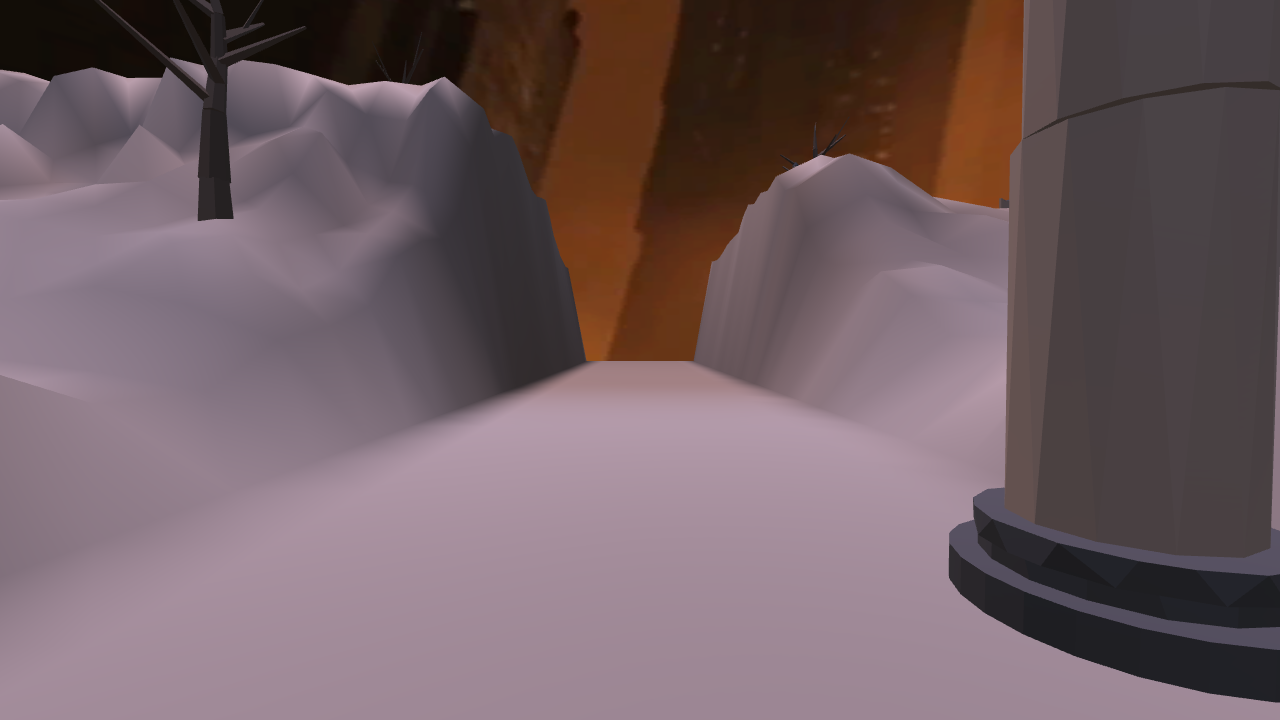
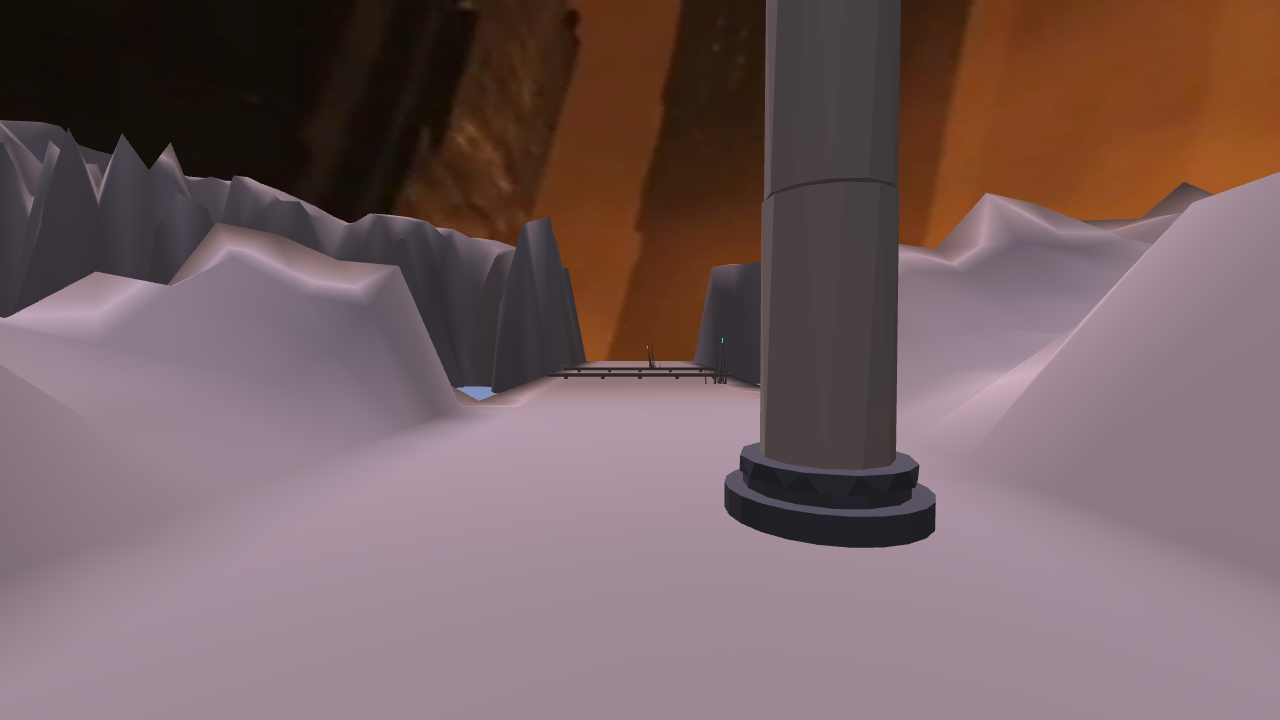
preview: 🌙 야근 웨이브 2 — Stage 1(의도 명세) 다시 세우고 물을 1급 지형 범주로 도입: 강·호수·오아시스·발광 산정호 + 수변 갈대·판자 다리, 고지대 하향. 마을이 강기슭에 앉음. 계획 진행: plan.html에서 Stage 1 완료·Stage 2.3 도달 확인

diff --git a/plan.html b/plan.html
@@ -68,13 +68,13 @@
 
 <script>
 // ── plan data (edited each wave; status: done | run | wait) ─────────────────────────────
-const UPDATED = "2026-08-16 · 야근 웨이브 1";
+const UPDATED = "2026-08-16 · 야근 웨이브 2 (Stage 1 완료 + 물 도입)";
 const GOAL = "<b>이번 야근 목표:</b> Figure 1의 <b>Stage 1(Intent Analysis &amp; Planning)</b>을 thorough 하게 다시 세우고, <b>Stage 2 하위 3단계(Scene Terrain Generation &amp; Refinement)</b>까지 진행한다. 계기: 침식 버전이 여태 최선이나 ①좁은 타일에 과도한 고지대 ②맵에 물이 전혀 없음 — 되짚어 보니 <b>Stage 1을 건너뛰어</b> 지형 범주(특히 물)를 의도에서 유도하지 않고 건물 중심 분할로 직행한 게 근본 원인.";
 const FOOT = "핵심 인사이트: <i>coarse-to-fine agentic framework for building explicit, explorable, and editable 3D worlds from open-ended text.</i> — 우리도 거친 지형 골조(Stage 2)부터 세우고 점진적으로 조밀화(Stage 3)하되, 그 출발점인 의도 명세(Stage 1)를 먼저 제대로 닫는다.";
 
 const STEPS = [
- { stage:"Stage 1 — Intent Analysis & Planning", status:"run",
-   title:"의도 명세: 5왕국 × (Scene Type / Spatial Layout / Visual Style / Main Objects / Terrain Categories)",
+ { stage:"Stage 1 — Intent Analysis & Planning", status:"done",
+   title:"의도 명세: 5왕국 × (Scene Type / Spatial Layout / Visual Style / Main Objects / Terrain Categories) ✔ 물 포함",
    body:`<p>논문 Stage 1은 열린 텍스트를 <b>구조화된 장면 명세</b>로 번역한다(그림 1의 5개 필드). 우리는 이걸 건너뛰고 곧장 분할로 갔다 — 그래서 지형 범주에 <b>물</b>이 없다(논문의 첫 예시부터 'frozen lake'가 1급 지형 범주다).</p>
    <ul>
      <li><b>Scene Type</b> — 각 왕국의 지형 성격(예: 봉화 변경=사막 협곡, 인지 첨탑=수정 고원).</li>
@@ -83,10 +83,10 @@ const STEPS = [
      <li><b>Main Objects</b> — 왕국별 주요 오브젝트(교단 시그니처 + 공통 킷).</li>
      <li><b>Terrain Categories</b> — <b>물(강/호수) 포함</b>, 고지/사면/평지/정착지/도로 — 각 범주에 hmap 함수와 재질을 부여(Stage 2c).</li>
    </ul>
-   <p>산출물: <code>docs/spec/stage1_intent.md</code> + <code>gen_realm_specs.py</code>의 상위 의도 블록. 이 페이지에 thoroughness 기록.</p>`,
-   rev:[] },
+   <p>산출물: <code>docs/spec/stage1_intent.md</code>(작성 완료) + <code>gen_realm_specs.py</code>의 <code>INTENT</code>/<code>WATER</code> 테이블 → 스펙 v3의 <code>intent</code>/<code>world.water</code>. <b>thoroughness</b>: 5왕국 전부 5개 필드 명세, 물(강/호수/오아시스/운하/산정호)을 1급 지형 범주로 포함, 스펙 재생성·분할 불변식 통과.</p>`,
+   rev:[{old:"지형 범주에 물 없음(Stage 1 건너뜀)", new:"물을 1급 지형 범주로 · 왕국별 water 명세"}] },
 
- { stage:"Stage 2 — Global Terrain Generation", status:"wait",
+ { stage:"Stage 2 — Global Terrain Generation", status:"done",
    title:"2.1 Prompt Planning — (a) 레이아웃 (b) 재질·에셋 (c) 지형 설계",
    body:`<p>의도 명세를 실행 가능한 파라미터로 편다.</p>
    <ul>
@@ -96,20 +96,21 @@ const STEPS = [
    </ul>`,
    rev:[] },
 
- { stage:"Stage 2 — Global Terrain Generation", status:"wait",
+ { stage:"Stage 2 — Global Terrain Generation", status:"done",
    title:"2.2 Scene Assets Generation — 프로시저럴 킷(3070 Blender)",
-   body:`<p>논문은 GPT-Image→Hunyuan3D로 에셋을 생성. 우리는 가중치·한국 제약으로 <b>3070 Blender 프로시저럴 킷</b>으로 대체(기능 등가). 이번 웨이브에 <b>물가 에셋</b>(갈대·수변 바위·판자 다리) 발주.</p>`,
+   body:`<p>논문은 GPT-Image→Hunyuan3D로 에셋을 생성. 우리는 가중치·한국 제약으로 <b>3070 Blender 프로시저럴 킷</b>으로 대체(기능 등가). 라운드20 <b>물가 에셋</b> <code>reed_cluster</code>·<code>plank_bridge</code> 발주→즉시 납품→<code>WorldKit()</code> 자동 편입. 킷 42종.</p>`,
    rev:[] },
 
- { stage:"Stage 2 — Global Terrain Generation", status:"wait",
-   title:"2.3 Scene Terrain Generation & Refinement ← 야근 종착점",
-   body:`<p>거친 지형을 생성하고 산포한 뒤, <b>렌더-검사-수정 루프</b>로 다듬는다(논문의 VLM refinement = 우리의 codex 이미지 게이트).</p>
+ { stage:"Stage 2 — Global Terrain Generation", status:"done",
+   title:"2.3 Scene Terrain Generation & Refinement ← 야근 종착점 ✔",
+   body:`<p>거친 지형 생성→산포→<b>렌더-검사-수정 루프</b>(논문 VLM refinement = codex 이미지 게이트). 이번 야근 도달점.</p>
    <ul>
-     <li><b>terrain generation</b> — 지질 구조(크레스트·지맥·배수) + 수력 침식 베이크 + <b>물(강/호수)</b> + <b>고지대 스케일 하향</b>.</li>
-     <li><b>3d assets scatter</b> — 범주별 접지 산포(경사 검사, 수변 식생).</li>
-     <li><b>scene refinement</b> — codex 적대적 시각 리뷰 → 지적 수용 → 재렌더(반복).</li>
-   </ul>`,
-   rev:[] },
+     <li><b>terrain generation</b> ✔ — 지질 구조(크레스트·지맥·배수) + 수력 침식 베이크(MIT 알고리즘 각색) + <b>물(강/호수/오아시스/산정호)</b> 절개+수면 평면 + <b>고지대 range_h 4~7로 하향</b>.</li>
+     <li><b>3d assets scatter</b> ✔ — 범주별 접지 산포(경사 검사) + 수변 갈대 + 도로-강 교차 다리.</li>
+     <li><b>scene refinement</b> ✔(1라운드) — codex 판정: 물 통합 archive·cognition YES, oathbound·beacon PARTIAL. beacon 오아시스 분지화·수면 광택 하향 반영.</li>
+   </ul>
+   <p><b>남은 리파인(다음 웨이브):</b> codex 최대 잔여 지적 = "정착지 footprint가 너무 직각·평탄한 슬랩(성벽 사각형)" → 성벽·테라스 가장자리 유기화. 물 자체는 양호.</p>`,
+   rev:[{old:"물 없음 · 좁은 타일 과도 고지대", new:"강·호수 도입 + 고지대 하향 + 수력 침식으로 지질 서사"}] },
 
  { stage:"Stage 3 — Regional Object Generation & Placement", status:"done",
    title:"정착지 구역 배치 (기존 완료분)",
